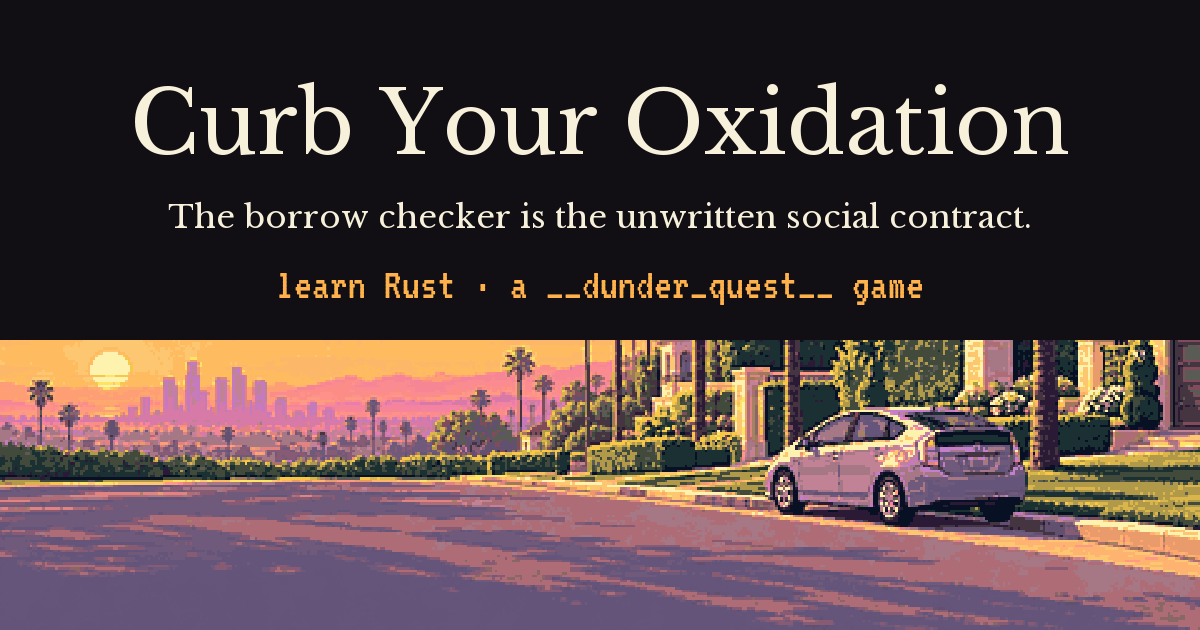
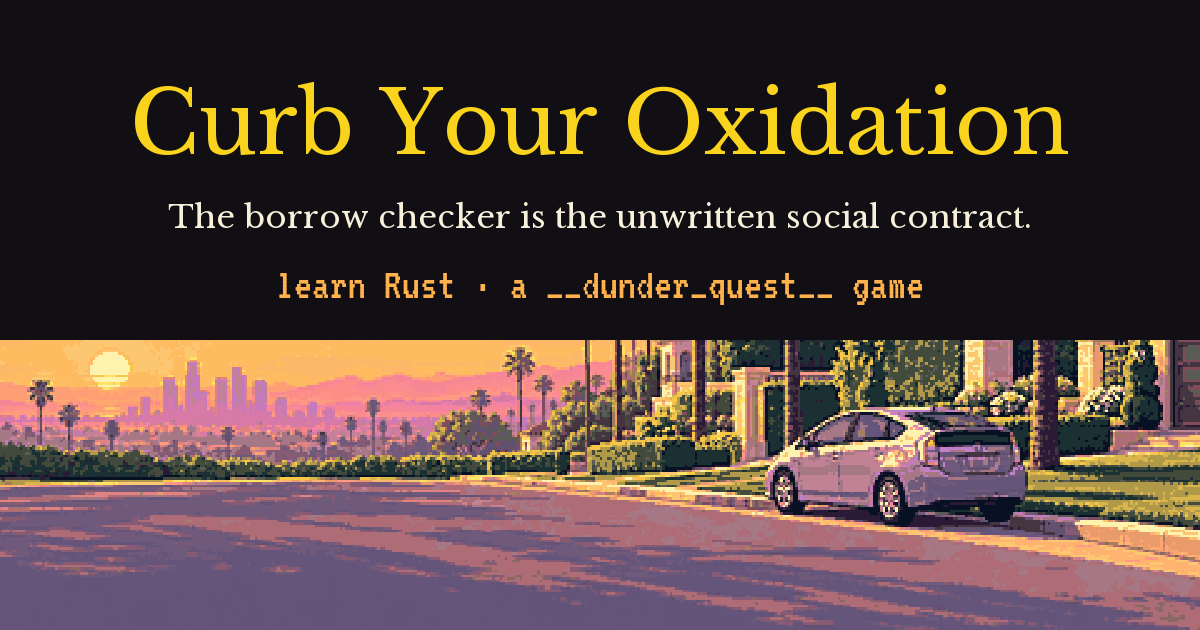
Curb: the show's yellow for the name, and a trailer that opens like an episode
The name is now yellow (Palette.YELLOW, #fad41c) on the title screen, the
map, the end card, the trailer, its thumbnail and the social card, and it's
the accent on black for the game's buttons and the /curb/ page. The trailer
now opens on the title tune with the name and then scene 1's title card, and
the music drops out as it goes into the situation (the latte) before the cue.

Changed region(s): [[0.5242, 0.1206, 0.8942, 0.2413], [0.0925, 0.1206, 0.4933, 0.2714], [0.1233, 0.1206, 0.1542, 0.1508]]

diff --git a/site/static/curb.css b/site/static/curb.css
@@ -1,7 +1,8 @@
 /* Curb Your Oxidation, on top of style.css. Bright Westside daylight
    (stucco, pool blue, golf green, Rust's oxide orange, from
    curb/core/palette.gd), black title cards in plain serif like the game's,
-   and Barry's yellow legal pad for the code. */
+   the show's yellow for the name and the accents on black, and Barry's
+   yellow legal pad for the code. */
 
 body.cy {
   color-scheme: light;
@@ -18,6 +19,7 @@ body.cy {
   --ink: #0d0b0c;
   --paper: #f7f0db;
   --rust: #d96b2e;
+  --yellow: #fad41c;
   --pool: #1a6f94;
   --pad: #fdf3a0;
   --pad-rule: #a9c4e2;
@@ -34,12 +36,12 @@ body.cy {
 .cy :focus-visible { outline-color: var(--pool); }
 
 /* The bar is a title card too */
-.cy .bar { background: rgba(13, 11, 12, 0.95); border-bottom-color: var(--rust); }
-.cy .brand { font: 400 1.2rem var(--display); color: var(--paper); }
+.cy .bar { background: rgba(13, 11, 12, 0.95); border-bottom-color: var(--yellow); }
+.cy .brand { font: 400 1.2rem var(--display); color: var(--yellow); }
 .cy .brand img { width: 12px; height: 24px; }
 .cy .bar nav a { color: #cfc6b8; }
 .cy .bar nav a:hover { color: #fff; }
-.cy .bar nav a.cy-home { color: var(--rust); }
+.cy .bar nav a.cy-home { color: var(--yellow); }
 .cy .bar nav a.cy-home::before { content: "← "; }
 
 /* Buttons: black on the page, paper on the black cards */
@@ -48,16 +50,16 @@ body.cy {
 .cy .btn:active { box-shadow: 0 1px 0 var(--rust); }
 .cy .btn-ghost { background: transparent; color: var(--paper); border-color: var(--paper); box-shadow: none; }
 .cy .btn-ghost:hover { background: rgba(255, 255, 255, 0.08); color: #fff; box-shadow: none; }
-.cy .bar .btn-small, .cy-hero .btn:not(.btn-ghost) { color: var(--ink); background: var(--paper); border-color: var(--paper); }
-.cy .bar .btn-small:hover, .cy-hero .btn:not(.btn-ghost):hover { color: var(--ink); background: #fff; }
+.cy .bar .btn-small, .cy-hero .btn:not(.btn-ghost) { color: var(--ink); background: var(--yellow); border-color: var(--yellow); box-shadow: none; }
+.cy .bar .btn-small:hover, .cy-hero .btn:not(.btn-ghost):hover { color: var(--ink); background: #ffe45c; }
 
 /* The hero: the game's title screen, a title card over the Westside */
 .cy-hero { background: var(--ink); color: var(--paper); }
 .title-card { background: var(--ink); color: var(--paper); text-align: center; }
 .cy-title { max-width: 900px; margin: 0 auto; padding: clamp(48px, 8vw, 96px) var(--gutter) 40px; }
 .cy-title .prompt { color: #8d8478; }
-.cy-title .prompt::after { background: var(--rust); }
-.cy-title h1 { font-size: clamp(2.4rem, 7.4vw, 5rem); line-height: 1.1; margin: 12px 0 18px; color: var(--paper); }
+.cy-title .prompt::after { background: var(--yellow); }
+.cy-title h1 { font-size: clamp(2.4rem, 7.4vw, 5rem); line-height: 1.1; margin: 12px 0 18px; color: var(--yellow); }
 .cy-title .tag { font: italic 400 clamp(1.1rem, 2.4vw, 1.45rem)/1.4 var(--display); max-width: none; color: var(--paper); }
 .cy-title .hero-sub { margin: 0 auto 1em; color: #d8cfc0; }
 .cy-title .cta { justify-content: center; }
@@ -82,10 +84,10 @@ body.cy {
 /* The episode guide: a row of title cards */
 .guide { list-style: none; padding: 0; margin: 28px 0 8px; display: grid; grid-template-columns: repeat(5, minmax(0, 1fr)); gap: 10px; }
 .guide a { display: flex; flex-direction: column; justify-content: center; min-height: 128px; padding: 14px 10px; background: var(--ink); color: var(--paper); text-align: center; text-decoration: none; transition: transform 0.1s ease, box-shadow 0.1s ease; }
-.guide a:hover, .guide a:focus-visible { color: var(--paper); transform: translateY(-2px); box-shadow: 0 4px 0 var(--rust); }
+.guide a:hover, .guide a:focus-visible { color: var(--paper); transform: translateY(-2px); box-shadow: 0 4px 0 var(--yellow); }
 .ep-n { font: italic 0.8rem var(--display); color: #a39a8c; }
 .ep-t { font: 1.05rem/1.25 var(--display); margin: 6px 0; }
-.ep-l { font: 0.8rem/1.3 var(--mono); color: var(--rust); }
+.ep-l { font: 0.8rem/1.3 var(--mono); color: var(--yellow); }
 @media (max-width: 860px) { .guide { grid-template-columns: repeat(2, minmax(0, 1fr)); } .guide a { min-height: 108px; } }
 
 /* One episode */

diff --git a/site/static/style.css b/site/static/style.css
@@ -527,5 +527,5 @@ tbody th { font-weight: 700; color: var(--parchment); }
 .next-game b { display: block; font: 600 1.3rem/1.3 var(--display); margin-bottom: 10px; }
 .next-go { display: block; margin-top: 14px; font: 1.4rem var(--label); color: #f7de1f; }
 @media (max-width: 760px) { .next-game { grid-template-columns: 1fr; } }
-.next-curb:hover { border-color: #d96b2e; }
-.next-curb .next-go { color: #ff9a5c; }
+.next-curb:hover { border-color: #fad41c; }
+.next-curb .next-go { color: #fad41c; }

diff --git a/games/curb/tools/make_trailer.py b/games/curb/tools/make_trailer.py
@@ -1,7 +1,8 @@
 """Cut the Curb Your Oxidation trailer from a Movie Maker capture of the bot.
 
 Cut like the promos for the kind of LA cringe comedy the game is a homage
-to: plain white serif on black cards between the scenes, the squabbling
+to: the show's name in yellow serif on black over the title tune, then
+straight into the situation; plain white serif on black cards between the scenes, the squabbling
 left to play, the sepia rehearsal stopping on a red line and Sharon bursting
 in with the rustc error, Barry's squint held through an awkward silence, the
 `unwrap()` panic, and a freeze frame with a bouncy tuba sting to end on.
@@ -10,7 +11,9 @@ numbers with nearest-neighbor, like the Dunder Quest and Flatmates.js
 trailers, whose drawing, mixing and encoding helpers
 (../../dunder-quest/tools/make_trailer.py) this reuses.
 
-It opens cold on the game's own sound: Barry promising one latte, the
+It opens like an episode: the game's title tune with the name in yellow,
+then the episode's own black title card, then the music drops out and it
+plays the situation on the game's own sound: Barry promising one latte, the
 rehearsal, Sharon. Then the cue (`trailer/audio/cue_curb.wav`, an original
 Italian-library-style comedy piece, 120 BPM, measured beats at 0.05 s + k/2
 and bars from 1.05 s) comes in on its pickup and every cut after that lands
@@ -82,6 +85,8 @@ SYN_TYPE = (15, 112, 128)
 BLACK = (0, 0, 0)
 WHITE = (255, 255, 255)
 GREY = (205, 205, 205)
+## The show's yellow (Palette.YELLOW), for the name.
+YELLOW = (250, 212, 28)
 
 # --- The cue -----------------------------------------------------------------
 
@@ -279,7 +284,7 @@ def black(_t: float) -> Image.Image:
     return Image.new("RGB", (W, H), BLACK)
 
 
-def card(lines: list[tuple[str, int]], at: float = -1.0, gap: float = 0.0):
+def card(lines: list[tuple[str, int]], at: float = -1.0, gap: float = 0.0, color=WHITE):
     """A black card of plain serif lines, centered; each line can wait `gap`."""
     def draw(t: float) -> Image.Image:
         img = black(t)
@@ -287,7 +292,7 @@ def card(lines: list[tuple[str, int]], at: float = -1.0, gap: float = 0.0):
         y = (H - total) // 2 + 4
         for k, (s, size) in enumerate(lines):
             if t >= at + k * gap:
-                serif_text(img, (W // 2, y), s, size, WHITE if k == 0 else GREY)
+                serif_text(img, (W // 2, y), s, size, color if k == 0 else GREY)
             y += int(size * 1.6)
         return img
     return draw
@@ -297,7 +302,7 @@ def end_card(at: float):
     def draw(t: float) -> Image.Image:
         img = black(t)
         local = t - at
-        serif_text(img, (W // 2, 70), "Curb Your Oxidation", 28)
+        serif_text(img, (W // 2, 70), "Curb Your Oxidation", 28, YELLOW)
         if local >= 0.8:
             serif_text(img, (W // 2, 112), "Learn Rust. Mind your manners.", 13, GREY)
         if local >= 1.6:
@@ -338,12 +343,17 @@ class Shot:
         return int(self.src + round((t - self.start) * FPS * self.speed))
 
 
-## The cold open, in capture frames of scene 1 (filled in by `edit`).
+## Where the cue comes in, after the situation (filled in by `edit`).
 INTRO = 0.0
+## The opening titles, on the title tune's beats (0.5 s + k): the name, then
+## the episode's own title card, then the music drops out for the situation.
+NAME_AT = 0.5
+EPISODE_AT = 4.5
+SITUATION_AT = 7.5
 
 
-def cold_open() -> list[tuple[int, int, str]]:
-    """(from, to, label) capture ranges played back to back before the cue."""
+def situation() -> list[tuple[int, int, str]]:
+    """(from, to, label) capture ranges played back to back after the titles."""
     say = [f for f, s in marks() if s.startswith("say ") and f < mark("card", 1)]
     one = say[1]                          # Barry: One. One latte.
     rehearsal = mark("rehearsal 1a", 1)
@@ -369,9 +379,13 @@ def edit() -> list[Shot]:
         shots.append(shot)
         return shot
 
-    # Cold open: straight in, on the game's own sound.
-    t = 0.0
-    for a, b, label in cold_open():
+    # The opening titles, over the title tune, like the top of an episode.
+    add(0.0, NAME_AT, draw=black, label="black")
+    add(NAME_AT, EPISODE_AT, draw=card([("Curb Your Oxidation", 30)], color=YELLOW), label="name")
+    add(EPISODE_AT, SITUATION_AT, src=mark("scene 1 ") + 40, speed=0.0, label="episode title")
+    # Then the situation, on the game's own sound.
+    t = SITUATION_AT
+    for a, b, label in situation():
         length = (b - a) / FPS
         fx = []
         if label == "sharon":
@@ -382,14 +396,12 @@ def edit() -> list[Shot]:
     add(t, t + 0.35, draw=black, label="beat")
     INTRO = t + 0.35
 
-    # The title on the cue's first big hit.
-    title_at = cue(2.55)
-    add(INTRO, title_at, draw=black, label="pickup")
-    add(title_at, bar(2), draw=card([("Curb Your Oxidation", 30)]), label="title")
-
-    # Who, what, and who's checking: card, footage, card, footage.
+    # Who, what, and who's checking, from the cue's first big hit: card,
+    # footage, card, footage.
+    first_hit = cue(2.55)
+    add(INTRO, first_hit, draw=black, label="pickup")
     etiquette = mark("say barry If we don't open it tonight", 3)
-    add(bar(2), bar(2.5), draw=card([("Barry Danvers has rules.", 18)]), label="card barry")
+    add(first_hit, bar(2.5), draw=card([("Barry Danvers has rules.", 18)]), label="card barry")
     add(bar(2.5), bar(4), src=etiquette + 1, label="the etiquette")
     add(bar(4), bar(4.5), draw=card([("So does Rust.", 18)]), label="card rust")
     pad = mark("pad 3a", 3)
@@ -458,7 +470,7 @@ END_HOLD = 6.0
 
 def chapters() -> list[tuple[float, str]]:
     """YouTube chapters (each at least 10 s long), for the video description."""
-    return [(0.0, "Cold open: one latte"), (INTRO, "Barry has rules"), (bar(8), "The season"),
+    return [(0.0, "Titles, and one latte"), (INTRO, "Barry has rules"), (bar(8), "The season"),
             (bar(15), "The panic, the shrimp, the squint"), (bar(22), "Freeze frames")]
 
 
@@ -470,7 +482,7 @@ def cues() -> list[tuple[str, float, float]]:
     """(sound, trailer time, gain): this trailer's own effects."""
     end_hit = cue(CUE_END) - 0.45
     return [
-        ("swish", bar(2) - 0.1, 0.4),
+        ("swish", bar(2.5) - 0.1, 0.4),
         ("scratch", cue(32.2) - 0.02, 0.7),
         ("sting", end_hit + 0.1, 1.0),
     ]
@@ -515,6 +527,11 @@ def mix_audio(shots: list[Shot], total_s: float, path: Path) -> None:
     music = np.zeros((n, 2), np.float32)
     score = dq.load_wav(AUDIO / f"{CUE}.wav")[int(CUE_START * RATE):int(CUE_END * RATE)]
     dq.place(music, score, INTRO, 1.0)
+    # The opening titles, over the game's title tune, which drops out as the
+    # situation starts.
+    opening = decode(GAME_AUDIO / "music_title.ogg")[:int(SITUATION_AT * RATE)].copy()
+    opening *= np.minimum(1.0, np.linspace(SITUATION_AT, 0, len(opening)) / 0.5)[:, None]
+    dq.place(music, opening, 0.0, 1.0)
     # Under the end card, the game's own title tune, faded in low.
     end = shots[-1]
     tune = decode(GAME_AUDIO / "music_title.ogg")[:int((end.end - end.start) * RATE)].copy()
@@ -537,12 +554,12 @@ def mix_audio(shots: list[Shot], total_s: float, path: Path) -> None:
     sfx = np.zeros((n, 2), np.float32)
     for name, at, gain in cues():
         dq.place(sfx, dq.load_wav(AUDIO / f"{name}.wav"), at, gain)
-    # Room tone under the cold open (the game has no voices), leveled and
+    # Room tone under the situation (the game has no voices), leveled and
     # faded out into the beat of black before the cue.
-    room = dq.load_wav(AUDIO / "kitchen.wav")[:int(INTRO * RATE)].copy()
+    room = dq.load_wav(AUDIO / "kitchen.wav")[:int((INTRO - SITUATION_AT) * RATE)].copy()
     room *= 0.03 / max(1e-6, float(np.sqrt((room ** 2).mean())))
     room *= np.minimum(1.0, np.linspace(len(room) / RATE, 0, len(room)) / 0.6)[:, None]
-    dq.place(sfx, np.clip(room, -0.5, 0.5), 0.0, 1.0)
+    dq.place(sfx, np.clip(room, -0.5, 0.5), SITUATION_AT, 1.0)
     hits = np.abs(game * 2.5 + sfx).max(axis=1)
     env = np.convolve(hits, np.ones(2400) / 2400, mode="same")
     duck = 1.0 - np.clip(env * 2.0, 0.0, 0.35)
@@ -587,7 +604,7 @@ def thumbnail(path: Path) -> None:
         d.rectangle((x - 2, y - 2, x + 145, y + 145), fill=edge)
         img.paste(face, (x, y), face)
     d.rectangle((0, 0, W, 60), fill=BLACK)
-    serif_text(img, (W // 2, 12), "Curb Your Oxidation", 30)
+    serif_text(img, (W // 2, 12), "Curb Your Oxidation", 30, YELLOW)
     msg = "error[E0382]: borrow of moved value"
     f = font(MONO, 22)
     tw = int(f.getlength(msg))

diff --git a/site/build.py b/site/build.py
@@ -388,7 +388,7 @@ def build_home(bank: dict, prefix: str = "") -> str:
   <p class="kicker">The third game</p>
   <h2 id="cy-h">Curb Your Oxidation teaches Rust</h2>
   <a class="next-game next-curb" href="{prefix}curb/">
-    <img src="{prefix}static/img/og/curb.png" alt="Curb Your Oxidation: a black title card in plain serif over a palm-lined Westside street at sunset" width="1200" height="630" loading="lazy">
+    <img src="{prefix}static/img/og/curb.png" alt="Curb Your Oxidation: a black title card, the name in yellow serif, over a palm-lined Westside street at sunset" width="1200" height="630" loading="lazy">
     <span><b>The borrow checker is the unwritten social contract.</b>
     Ten petty disputes on the Westside, from a second latte to a houseguest who won't leave, each settled by a Rust program, from <code>let mut</code> to lifetimes.
     <span class="next-go">Meet Barry →</span></span>
@@ -1031,7 +1031,7 @@ def build_brand_art(prefix: str) -> str:
 
 DQ_THUMB_ALT = "Trailer thumbnail: Tom the Enchanter's duel on print(list(range(4))), under the Dunder Quest wordmark"
 FM_THUMB_ALT = "Flatmates.js trailer thumbnail: Clive and Jazz on their sofas, under 'Learn JavaScript. Blame your flatmate.' and jazz.walk(7);"
-CURB_THUMB_ALT = "Curb Your Oxidation trailer thumbnail: the title in plain serif on black, over Sharon interrupting with error[E0382]"
+CURB_THUMB_ALT = "Curb Your Oxidation trailer thumbnail: the title in yellow serif on black, over Sharon interrupting with error[E0382]"
 
 
 def trailer_player(video: str, thumb: str, alt: str, name: str) -> str:
@@ -1567,7 +1567,7 @@ def fm_page(body: str, prefix: str) -> str:
 
 
 
-CURB_ALT = "Curb Your Oxidation: a black title card in plain serif over a palm-lined Westside street at sunset."
+CURB_ALT = "Curb Your Oxidation: a black title card, the name in yellow serif, over a palm-lined Westside street at sunset."
 CURB_DESC = ("Curb Your Oxidation, a Dunder Quest game that teaches Rust: the borrow checker is the unwritten "
              "social contract, and every petty dispute is settled by a Rust program. Play it free in your browser.")
 

diff --git a/site/curb_art.py b/site/curb_art.py
@@ -5,7 +5,8 @@
   -- scene=N` in games/curb first), and a close-up and a standing frame for
   each of the main cast into site/static/img/curb/.
 - Paints the social preview card, site/static/img/og/curb.png (1200x630): a
-  black title card in plain serif over the Westside at sunset.
+  black title card, the name in the show's yellow serif, over the Westside
+  at sunset.
 - Paints site/static/img/curb/trailer.png (1920x1080), the trailer's
   thumbnail, unless the trailer has its own at
   games/curb/trailer/out/curb_thumbnail.png, which it copies instead.
@@ -37,6 +38,8 @@ INK = (18, 15, 20)
 PAPER = (247, 240, 219)
 RUST = (217, 107, 46)
 EMBER = (255, 178, 76)
+## The show's yellow (Palette.YELLOW), for the name.
+YELLOW = (250, 212, 28)
 CAST = ["barry", "gil", "sharon", "carol", "lamont", "ted"]
 ## Screenshots the page shows: how a plan goes, in scene 3, and each
 ## episode's opening bicker.
@@ -58,7 +61,7 @@ def og_card() -> None:
     serif = ImageFont.truetype(str(FONTS / "LibreBaskerville.ttf"), 86)
     small = ImageFont.truetype(str(FONTS / "LibreBaskerville.ttf"), 32)
     mono = ImageFont.truetype(str(FONTS / "VT323.ttf"), 44)
-    centered(draw, 70, "Curb Your Oxidation", serif, PAPER, 1200)
+    centered(draw, 70, "Curb Your Oxidation", serif, YELLOW, 1200)
     centered(draw, 196, "The borrow checker is the unwritten social contract.", small, PAPER, 1200)
     centered(draw, 262, "learn Rust · a __dunder_quest__ game", mono, EMBER, 1200)
     OG.parent.mkdir(parents=True, exist_ok=True)
@@ -78,7 +81,7 @@ def thumbnail() -> None:
     draw = ImageDraw.Draw(thumb)
     serif = ImageFont.truetype(str(FONTS / "LibreBaskerville.ttf"), 150)
     small = ImageFont.truetype(str(FONTS / "LibreBaskerville.ttf"), 56)
-    centered(draw, 60, "Curb Your Oxidation", serif, PAPER, 1920)
+    centered(draw, 60, "Curb Your Oxidation", serif, YELLOW, 1920)
     centered(draw, 260, "Learn Rust. Mind your manners.", small, EMBER, 1920)
     thumb.save(OUT / "trailer.png")
     print("wrote", OUT / "trailer.png")

diff --git a/AGENTS.md b/AGENTS.md
@@ -19,7 +19,7 @@ See [README.md](README.md). The site is built by `site/build.py`. Each game has 
 - **Generating assets is pre-approved.** Generate art, music and SFX with the `tools/generate_*.py` scripts (OpenRouter key in `.env`), or new scripts like them, without asking first. Generated beats placeholder. Keep trailer and marketing assets out of a game's `assets/`, so the web build stays small.
 - **Dunder Quest is a Holy Grail homage.** Python is named after Monty Python. Use winking homage names (the Knight Who Says Mi, Tom the Enchanter, the Bridge of Peril), never the films' real character names, and don't quote at length in visible UI, to stay clear of Python (Monty) Pictures' IP. Hidden eggs (`common/eggs.gd`, listed at /admin/eggs) may quote short lines.
 - **Flatmates.js is the second game** (`games/flatmates/`, its own Godot project, page at /flatmates/, game at /flatmates/play/). It teaches JavaScript and is a homage to a Croydon flat-share sitcom. Keep it distinct from Dunder Quest: no quiz duels; the puzzles are scripts that the flatmate you aren't playing runs, and left alone he drifts back to his comfort spot. Use homage names only (Clive, Jazz, Big Ron, Tess from Accounts), never the show's names or lines, and don't name the show in anything public. Its checks are `tests/bot.tscn` and `tests/verify_lessons.mjs`.
-- **Curb Your Oxidation is the third game** (`games/curb/`, its own Godot project, page at /curb/, game at /curb/play/). It teaches Rust and is a homage to an LA cringe-comedy series: Rust's borrow checker is the unwritten social contract. Copy the show as closely as possible in everything that is format, tone or trope (the Westside setting, petty etiquette disputes, the improvised-feeling bickering, the hero's squinting stare-downs and suspicious interrogations, black title cards in plain serif, a freeze frame and a bouncy comic-tuba sting at the end of every scene), with exactly three limits: no real people's or characters' names (homage names only: Barry Danvers, Gil and Sharon Greene, Carol, Lamont, Ted Pruitt), no verbatim catchphrases or lines from the show, and no recreation of its theme tune (original music in the same style and instrumentation is fine). Don't name the show in anything public. Keep it distinct from the other two games: no quiz duels and no flatmate running your script; a plan plays in Barry's head first and Sharon interrupts at the line the borrow checker rejects, with the real rustc error code. Never teach anything that isn't real Rust. Its checks are `tests/cases.gd`, `tests/bot.tscn` and `tests/verify_rust.py` (which compiles every plan with rustc; CI runs it).
+- **Curb Your Oxidation is the third game** (`games/curb/`, its own Godot project, page at /curb/, game at /curb/play/). It teaches Rust and is a homage to an LA cringe-comedy series: Rust's borrow checker is the unwritten social contract. Copy the show as closely as possible in everything that is format, tone or trope (the Westside setting, petty etiquette disputes, the improvised-feeling bickering, the hero's squinting stare-downs and suspicious interrogations, black title cards in plain serif, the show's yellow for the name and the accents on black (`Palette.YELLOW`, #fad41c), trailers that open like an episode (title tune and name, then the episode's title card, then straight into the situation), a freeze frame and a bouncy comic-tuba sting at the end of every scene), with exactly three limits: no real people's or characters' names (homage names only: Barry Danvers, Gil and Sharon Greene, Carol, Lamont, Ted Pruitt), no verbatim catchphrases or lines from the show, and no recreation of its theme tune (original music in the same style and instrumentation is fine). Don't name the show in anything public. Keep it distinct from the other two games: no quiz duels and no flatmate running your script; a plan plays in Barry's head first and Sharon interrupts at the line the borrow checker rejects, with the real rustc error code. Never teach anything that isn't real Rust. Its checks are `tests/cases.gd`, `tests/bot.tscn` and `tests/verify_rust.py` (which compiles every plan with rustc; CI runs it).
 - **Trailers are YouTube-first.** The 4K master and the YouTube thumbnail are primary. Steam is deferred, so keep the 1080p master Steam-compatible.
 - **One YouTube channel for every game:** [@dunderquest](https://www.youtube.com/@dunderquest). Channel art, copy and each video's upload form live on /brand/youtube/ (`build_brand_youtube` in `site/build.py`). Link that channel, not any other.
 

diff --git a/games/curb/trailer/README.md b/games/curb/trailer/README.md
@@ -1,6 +1,6 @@
 # Curb Your Oxidation trailer
 
-A trailer for **Curb Your Oxidation**, cut like the promos for the kind of LA cringe comedy the game is a homage to: plain white serif on black cards, the squabbling left to play, the sepia rehearsal stopping on a red line and Sharon bursting in with the rustc error, Barry's squint held through an awkward silence, the `unwrap()` panic, and a freeze frame with a bouncy tuba sting. Like the Dunder Quest and Flatmates.js trailers, it's built entirely from the repo with no video editor in the loop, and every frame is composed at the game's native 480×270 and scaled by whole numbers.
+A trailer for **Curb Your Oxidation**, cut like the promos for the kind of LA cringe comedy the game is a homage to: it opens like an episode, on the title tune with the name in the show's yellow serif on black and then the episode's title card, before dropping into the situation; then plain white serif on black cards, the squabbling left to play, the sepia rehearsal stopping on a red line and Sharon bursting in with the rustc error, Barry's squint held through an awkward silence, the `unwrap()` panic, and a freeze frame with a bouncy tuba sting. Like the Dunder Quest and Flatmates.js trailers, it's built entirely from the repo with no video editor in the loop, and every frame is composed at the game's native 480×270 and scaled by whole numbers.
 
 Names, lines and music are the game's own: Barry, Gil, Sharon and the rest of the homage cast, original lines, and an original Italian-library-style cue (tuba, mandolin, pizzicato). The music briefs ask for the style and instruments only and never describe any TV theme. The trailer doesn't name the show.
 
@@ -18,12 +18,13 @@ Shots look up their capture frames by name in `run.log` (`mark("rant E0382", sce
 
 ## How it's cut
 
-`cue_curb` measured at 120 BPM, beats at 0.05 s + k/2, bars from 1.05 s. It comes in on its pickup after the cold open, and every cut after that is on a beat or a bar.
+The opening titles sit on the game's title tune (`assets/audio/music_title.ogg`), whose beats fall at 0.5 s + k. `cue_curb` measured at 120 BPM, beats at 0.05 s + k/2, bars from 1.05 s. It comes in on its pickup after the situation, and every cut after that is on a beat or a bar.
 
 | Trailer | Cue | Picture |
 |---|---|---|
-| 0:00–0:13 | (none: game sound and kitchen room tone) | Cold open, scene 1: "One. One latte." / "Write it down." / "That was a Tuesday." The pad, the sepia rehearsal stopping on line 4, Sharon with E0384, Barry's squint: "Is that a rule? Is that a real rule?" |
-| bars 0–8 | main section | Title on the cue's first hit, then card / footage / card / footage: *Barry Danvers has rules.* (the deli) *So does Rust.* (the legal pad) *And somebody is always checking.* (the rehearsal and Sharon on the regifted Barolo, E0382) |
+| 0:00–0:07.5 | the game's title tune | Like the top of an episode: *Curb Your Oxidation* in yellow serif on black, then the game's own title card for scene 1, *The Second Latte*. The tune drops out on the cut. |
+| 0:07.5–0:21 | (none: game sound and kitchen room tone) | The situation, scene 1: "One. One latte." / "Write it down." / "That was a Tuesday." The pad, the sepia rehearsal stopping on line 4, Sharon with E0384, Barry's squint: "Is that a rule? Is that a real rule?" |
+| bars 0–8 | main section | From the cue's first hit, card / footage / card / footage: *Barry Danvers has rules.* (the deli) *So does Rust.* (the legal pad) *And somebody is always checking.* (the rehearsal and Sharon on the regifted Barolo, E0382) |
 | bars 8–15 | busier section | Scenes 4 to 10, a bar each: the game's own black serif title card for a beat and a half, then the plan playing out, with its key line of Rust on a legal-pad chip |
 | the stop at 32.2 s | silence, breakdown | The `unwrap()` panic, then the rehearsal and Sharon on the shrimp tray (E0499) |
 | the silence at 38.5 s | nothing | Barry's squint, held |

diff --git a/games/curb/README.md b/games/curb/README.md
@@ -2,7 +2,7 @@
 
 A Dunder Quest game that teaches Rust. Barry Danvers, a semi-retired TV writer on the Westside of LA, lives by rules nobody else has heard of and keeps getting into petty disputes about them. Each dispute is settled by a plan, and every plan is a short Rust program on Barry's yellow legal pad.
 
-**The borrow checker is the unwritten social contract.** Run a plan and Barry first plays it through in his head (in sepia), line by line, the way rustc reads the whole program before anything runs. If it breaks the rules, Sharon Greene bursts in at the offending line with the real rustc error (`error[E0382]: borrow of moved value: wine`) and an opinion about it. If it compiles, the scene plays it out for real: every `println!` is somebody saying that line, and the scene only moves on when the program prints exactly what should happen. Each scene opens on a black serif title card and ends on a freeze frame and a bouncy tuba sting.
+**The borrow checker is the unwritten social contract.** Run a plan and Barry first plays it through in his head (in sepia), line by line, the way rustc reads the whole program before anything runs. If it breaks the rules, Sharon Greene bursts in at the offending line with the real rustc error (`error[E0382]: borrow of moved value: wine`) and an opinion about it. If it compiles, the scene plays it out for real: every `println!` is somebody saying that line, and the scene only moves on when the program prints exactly what should happen. Each scene opens on a black serif title card and ends on a freeze frame and a bouncy tuba sting. The name is always in the show's yellow (`Palette.YELLOW`, #fad41c), which is also the game's and the page's accent on black.
 
 It's a homage to a certain LA cringe-comedy series: the format, the tone and the tropes, with invented names and original lines and music (see AGENTS.md for the rules).
 
